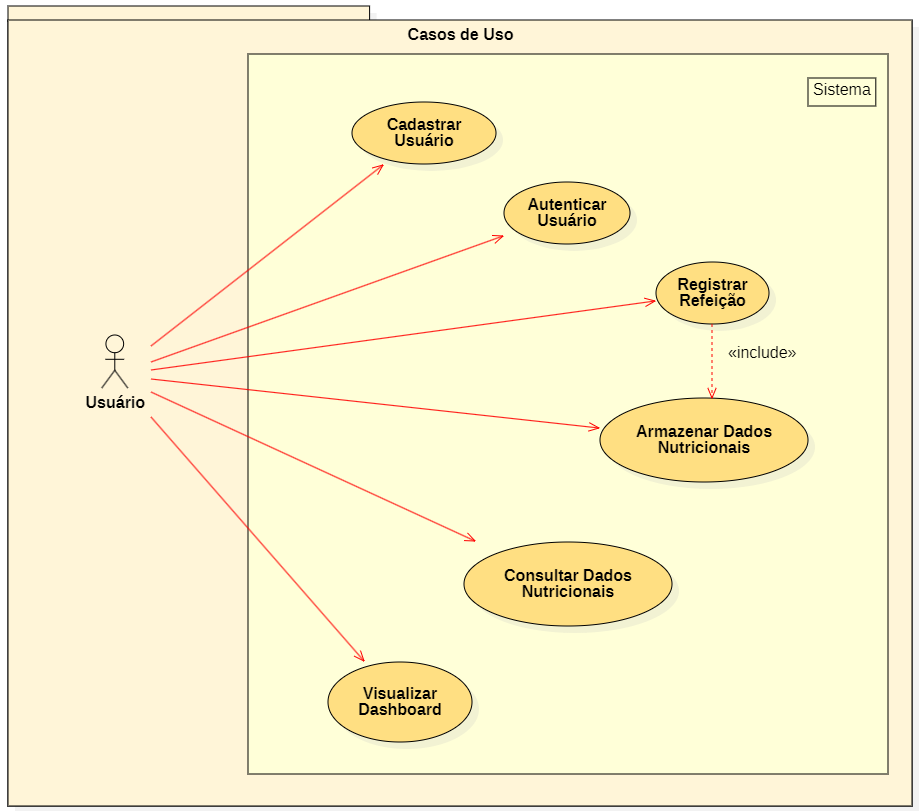
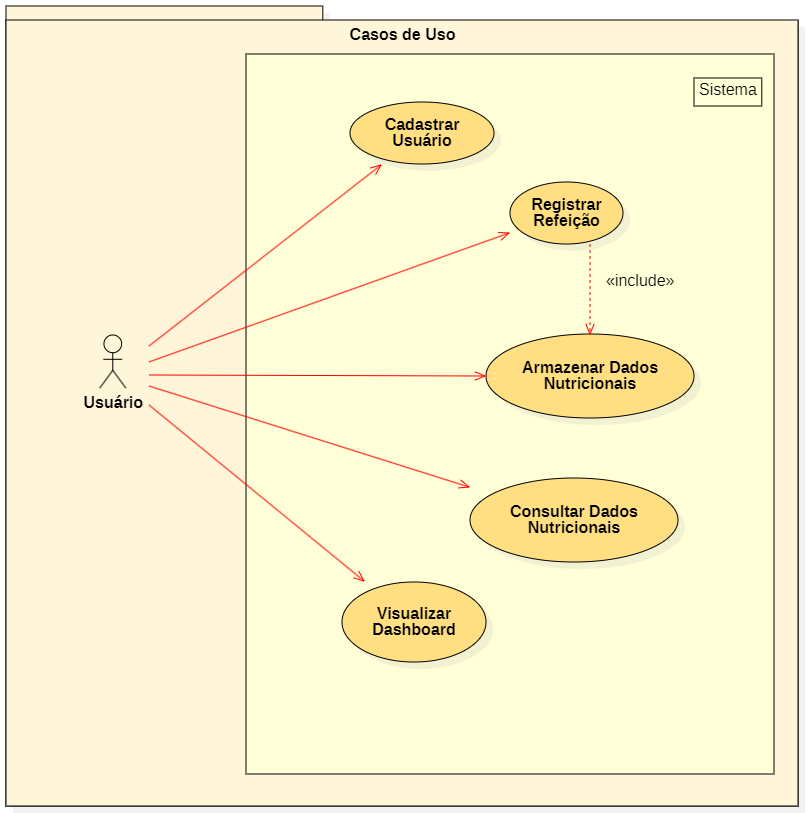
ENGREQ Atualiza legendas e descrições em tabelas e figuras nos capítulos 2, 3, 6 e 9

diff --git a/EngReq_CAES003/EngenhariaRequisitos_ProjetoFinal/capitulos/capitulo6.tex b/EngReq_CAES003/EngenhariaRequisitos_ProjetoFinal/capitulos/capitulo6.tex
@@ -4,10 +4,10 @@ A verificação e validação de requisitos são etapas fundamentais para garant
 
 \section{Matriz de Verificação dos Requisitos Funcionais}
 
-A verificação dos requisitos funcionais foi realizada com base nos nove problemas clássicos apresentados em aula: validade, consistência, completeza, realismo, facilidade de verificação (compreensibilidade), ambiguidade, facilidade de rastreamento, redundância e conformidade. O tempo total gasto na análise foi de 18 minutos.
+A verificação dos requisitos funcionais, descrito na tabela \ref{tab:verificacao-reqs-funcionais}, foi realizada com base nos nove problemas clássicos apresentados em aula: validade, consistência, completeza, realismo, facilidade de verificação (compreensibilidade), ambiguidade, facilidade de rastreamento, redundância e conformidade. O tempo total gasto na análise foi de 18 minutos. A célula marcada com ``X'' indica que o requisito apresenta problemas relacionados ao ponto de verificação correspondente.
 
 \begin{longtable}{|p{0.14\textwidth}|*{10}{>{\centering\arraybackslash}p{0.057\textwidth}|}}
-\caption{Matriz de Verificação dos Requisitos Funcionais. \textbf{Legenda:} X = apresenta o problema; célula em branco = não apresenta o problema.}
+\caption{Matriz de Verificação dos Requisitos Funcionais}
 \label{tab:verificacao-reqs-funcionais}\\
 \hline
 \textbf{Ponto de Verificação} & \textbf{RF01} & \textbf{RF02} & \textbf{RF03} & \textbf{RF04} & \textbf{RF05} & \textbf{RF06} & \textbf{RF07} & \textbf{RF08} & \textbf{RF09} & \textbf{RF10} \\
@@ -36,10 +36,10 @@ Conformidade &  &  &  &  &  &  &  &  &  &  \\
 
 \section{Matriz de Verificação dos Requisitos Não Funcionais}
 
-A verificação dos requisitos não funcionais também foi realizada com base nos mesmos nove problemas. O tempo total gasto na análise foi de 15 minutos.
+A verificação dos requisitos não funcionais também foi realizada, que pode ser visualizado na tabela \ref{tab:verificacao-reqs-naofuncionais}, com base nos mesmos nove problemas. O tempo total gasto na análise foi de 15 minutos.
 
 \begin{longtable}{|p{0.14\textwidth}|*{10}{>{\centering\arraybackslash}p{0.056\textwidth}|}}
-\caption{Matriz de Verificação dos Requisitos Não Funcionais. \textbf{Legenda:} X = apresenta o problema; célula em branco = não apresenta o problema.}
+\caption{Matriz de Verificação dos Requisitos Não Funcionais}
 \label{tab:verificacao-reqs-naofuncionais}\\
 \hline
 \textbf{Ponto de Verificação} & \textbf{RNF 01} & \textbf{RNF 02} & \textbf{RNF 03} & \textbf{RNF 04} & \textbf{RNF 05} & \textbf{RNF 06} & \textbf{RNF 07} & \textbf{RNF 08} & \textbf{RNF 09} & \textbf{RNF 10} \\

diff --git a/EngReq_CAES003/EngenhariaRequisitos_ProjetoFinal/capitulos/capitulo3.tex b/EngReq_CAES003/EngenhariaRequisitos_ProjetoFinal/capitulos/capitulo3.tex
@@ -7,7 +7,7 @@ Este capítulo apresenta os requisitos funcionais e não funcionais do sistema d
 Os requisitos funcionais (\sigla{RF}{Requisito Funcional}) são aqueles que descrevem o que o sistema deve fazer, ou seja, as funcionalidades que ele deve oferecer. A seguir, estão os requisitos funcionais identificados para o sistema:
 
 \begin{longtable}[c]{|l|l|l|l|l|}
-\caption{Requisitos Funcionais.}
+\caption{Requisitos Funcionais}
 \label{tab:reqs-funcionais}\\
 \hline
 \textbf{Código} &
@@ -80,7 +80,7 @@ Os requisitos funcionais (\sigla{RF}{Requisito Funcional}) são aqueles que desc
 
 Os requisitos não funcionais - \sigla{RNF}{Requisito Não Funcional} são aqueles que definem as qualidades e restrições do sistema, como desempenho, segurança, usabilidade, entre outros. A seguir, estão os requisitos não funcionais identificados para o sistema:
 \begin{longtable}[c]{|l|l|l|l|}
-\caption{Requisitos Não Funcionais.}
+\caption{Requisitos Não Funcionais}
 \label{tab:reqs-nao-funcionais}\\
 \hline
 \textbf{Código} & \textbf{Descrição}                                                                        & \textbf{Categoria} & \textbf{Prioridade} \\ \hline
@@ -121,7 +121,7 @@ Dessa forma, a matriz de associação entre requisitos funcionais e não funcion
 Os requisitos de design - \sigla{RD}{Requisito de Design} e implementação são aqueles que orientam a arquitetura do sistema e as tecnologias a serem utilizadas. A seguir, estão os requisitos de design e implementação identificados para o sistema:
 
 \begin{longtable}[c]{|l|l|l|}
-\caption{Requisitos de Design e Projeto.}
+\caption{Requisitos de Design e Projeto}
 \label{tab:reqs-design-projeto}\\
 \hline
 \textbf{Código} & \textbf{Descrição}            & \textbf{Prioridade} \\ \hline

diff --git a/EngReq_CAES003/EngenhariaRequisitos_ProjetoFinal/capitulos/capitulo9.tex b/EngReq_CAES003/EngenhariaRequisitos_ProjetoFinal/capitulos/capitulo9.tex
@@ -125,7 +125,7 @@ A redução obtida supera a meta estabelecida, mantendo o equilíbrio entre otim
 \section{Listagem dos Casos de Uso Após Redução}
 
 \begin{longtable}{|l|l|l|}
-\caption{Casos de Uso Mantidos após Redução de 30\% no Custo}
+\caption{Casos de Uso mantidos após redução de $35,5$\% no custo}
 \label{tab:casos-uso-reducao}\\
 \hline
 \textbf{Código} & \textbf{Descrição} & \textbf{Prioridade} \\
@@ -150,7 +150,7 @@ O diagrama de casos de uso atualizado, refletindo a redução de escopo, é apre
 \begin{figure}[h]
     \centering
     \includegraphics[width=0.8\textwidth]{Figuras/casos-uso-reducao.png}
-    \caption{Diagrama de Casos de Uso Após Redução de Escopo}
+    \caption{Diagrama de Casos de Uso após redução de escopo}
     \label{fig:casos-uso-reducao}
 \end{figure}
 

diff --git a/EngReq_CAES003/EngenhariaRequisitos_ProjetoFinal/capitulos/capitulo2.tex b/EngReq_CAES003/EngenhariaRequisitos_ProjetoFinal/capitulos/capitulo2.tex
@@ -25,7 +25,7 @@ Na tabela \ref{tab:avaliacao-requisitos-avaliadores} a seguir, pode-se visualiza
 
 \begin{table}[h]
     \centering
-    \caption{Classificação na Escala de Likert dos requisitos pelos entrevistados.}
+    \caption{Classificação na Escala de Likert dos requisitos pelos entrevistados}
     \resizebox{\textwidth}{!}{
         \begin{tabular}{|l|l|l|l|l|}
             \hline
